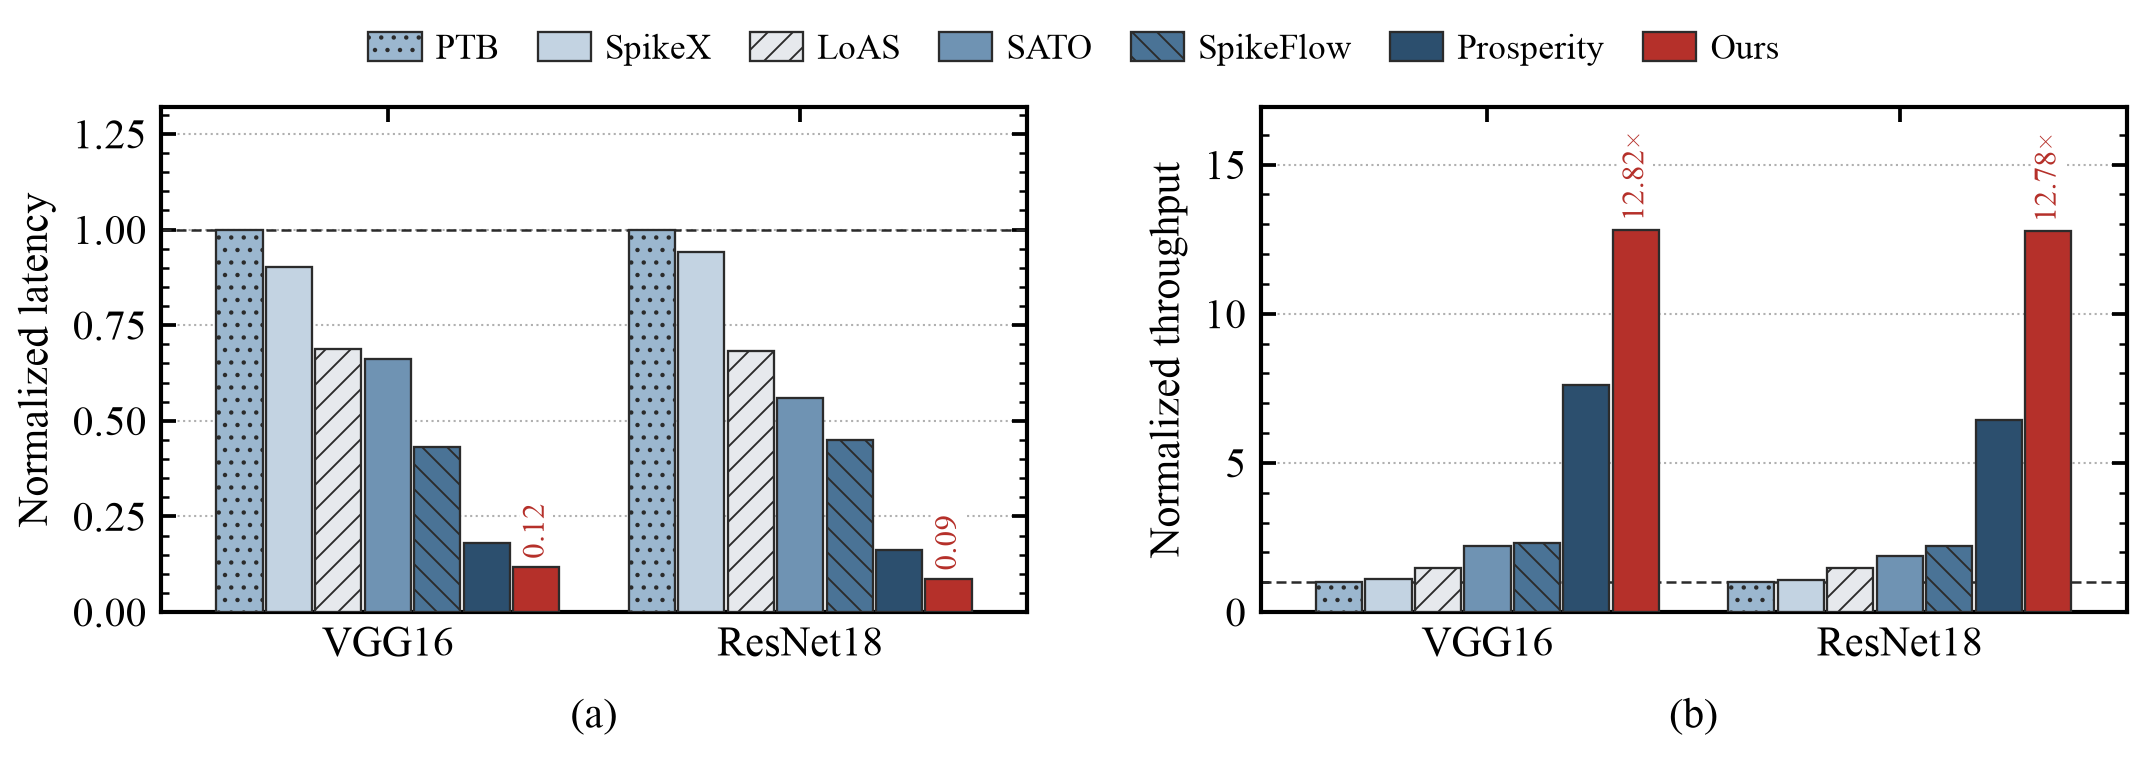
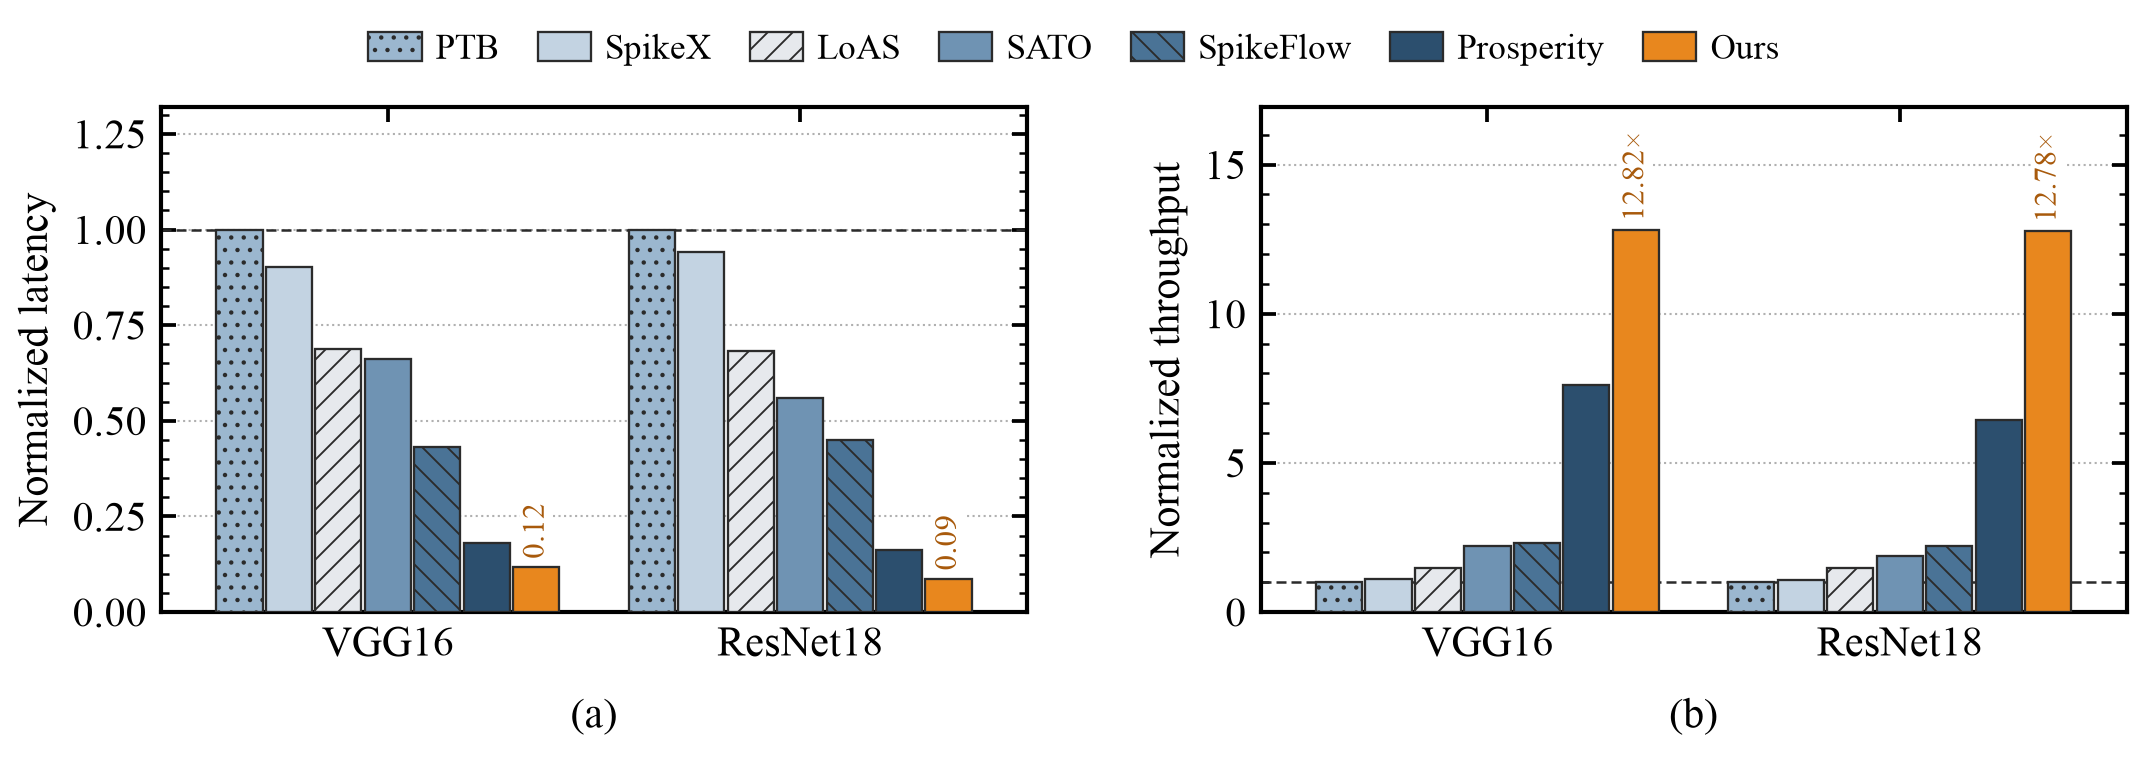
Figures: orange accent for ours (complement of the blue baselines)

diff --git a/dac2027_sim/plot_ptb_style.py b/dac2027_sim/plot_ptb_style.py
@@ -25,7 +25,7 @@ STYLE = {"loas_zip":   dict(color="#e6e9ed", hatch="////"),
          "sato":       dict(color="#6f93b3", hatch=""),
          "spikeflow":  dict(color="#4a7396", hatch="\\\\\\\\"),
          "prosperity": dict(color="#2c4f6e", hatch=""),
-         "ours":       dict(color="#b5302a", hatch="")}
+         "ours":       dict(color="#e8871e", hatch="")}
 EDGE = "#2b2b2b"
 
 plt.rcParams.update({
@@ -59,7 +59,7 @@ def draw(norm, out, note=""):
                 for xi, vi in zip(x, v):
                     ax.annotate(f"{vi:.2f}" if idx == 0 else f"{vi:.2f}\u00d7", (xi, vi), xytext=(0, 2),
                                 textcoords="offset points", ha="center", va="bottom", fontsize=7.5,
-                                rotation=90, color=STYLE["ours"]["color"], zorder=5,
+                                rotation=90, color="#a85a0c", zorder=5,
                                 bbox=dict(boxstyle="square,pad=0.08", fc="white", ec="none"))
         ax.axhline(1.0, color=EDGE, lw=0.6, ls=(0, (4, 2)), zorder=2)
         ax.set_xticks(range(len(NETS)), NETS)
